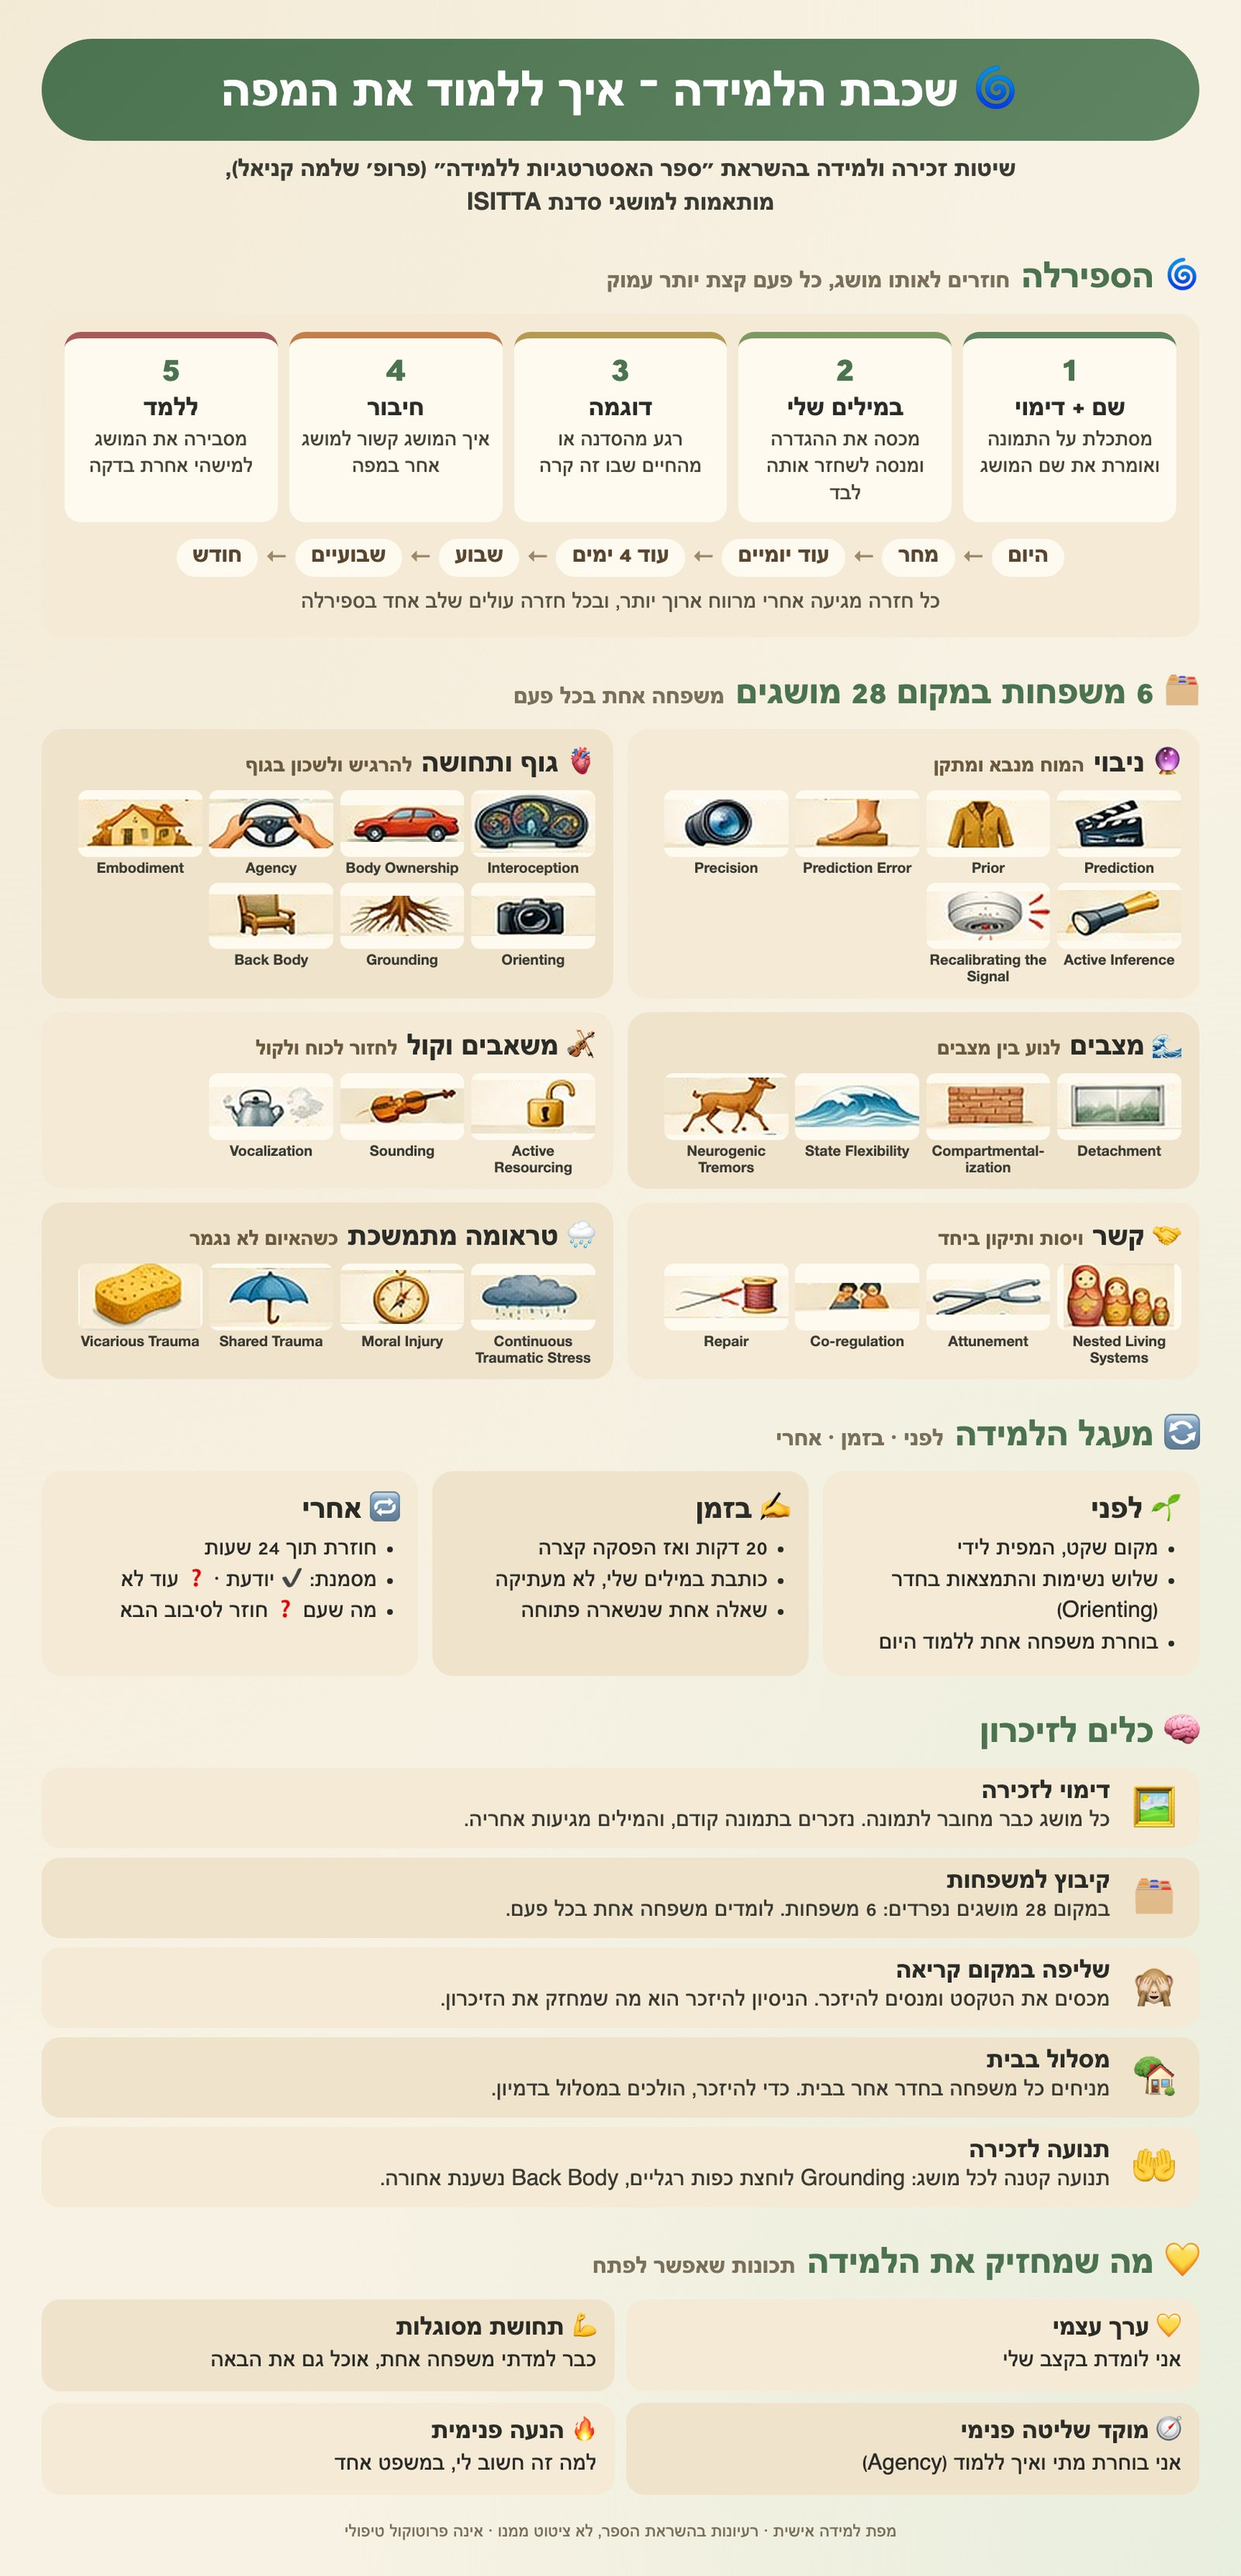
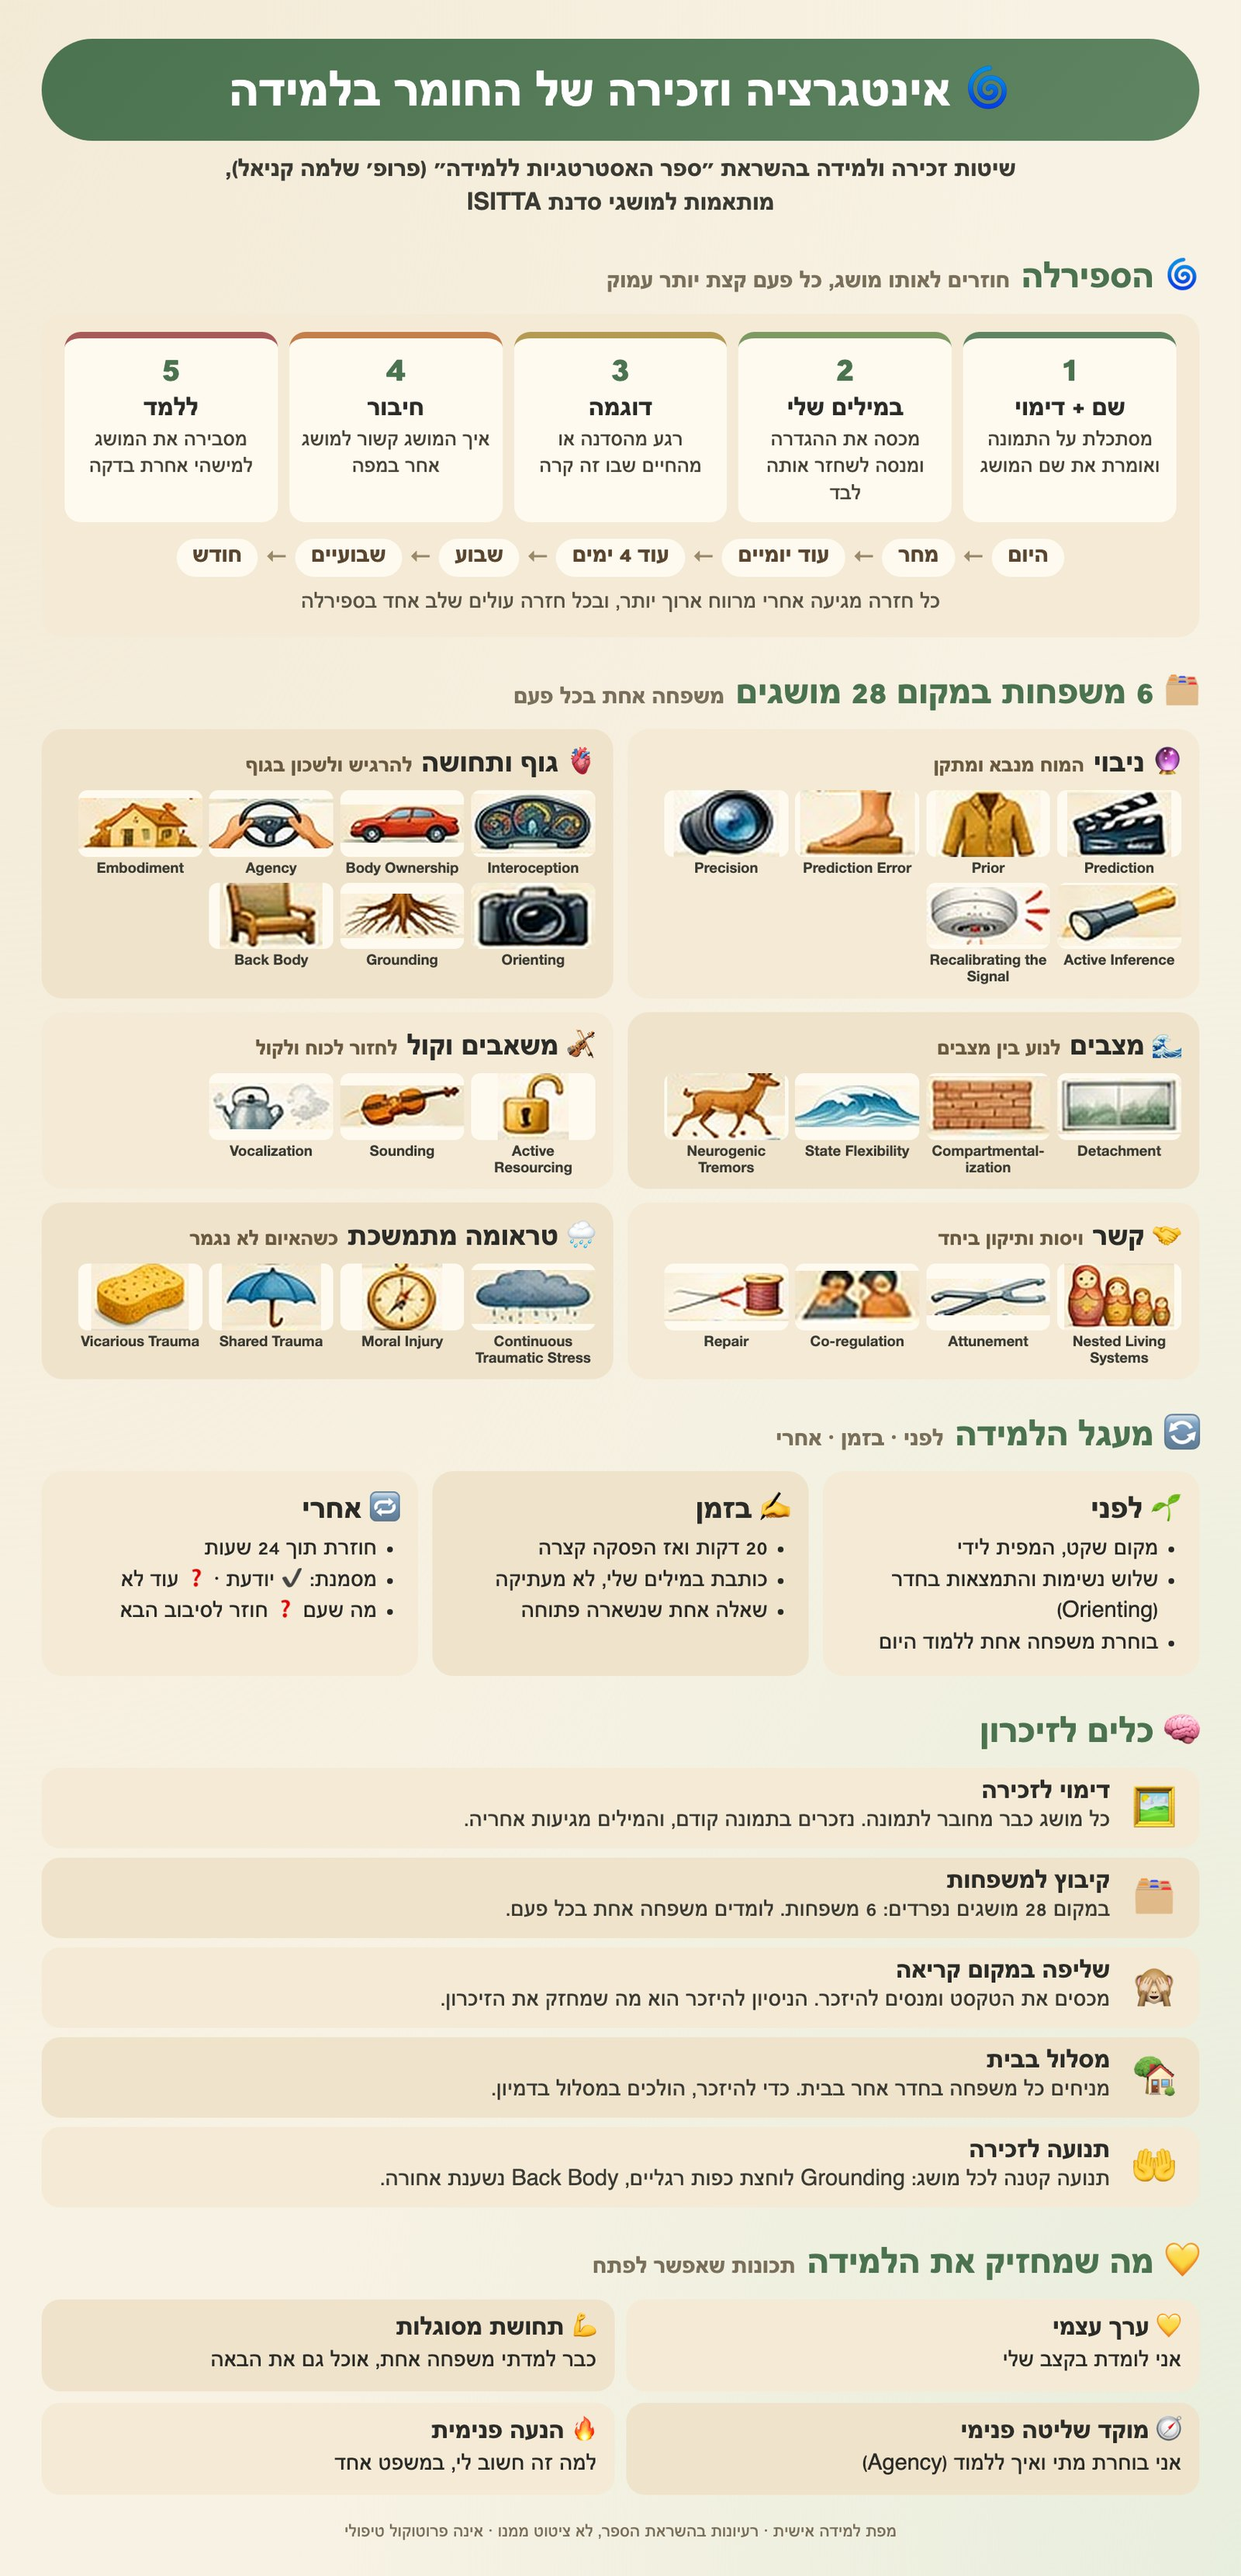
Last page retitled: Integrating and Remembering the Material (HE + EN)

diff --git a/index.html b/index.html
@@ -43,14 +43,14 @@
     <figure><img src="he/2.jpg" alt="מפת הלמידה הסומטית – חלק ב׳"></figure>
     <figure><img src="he/3.jpg" alt="מילון מושגים מרכזי עם דימוי לזכירה – חלק 1" loading="lazy"></figure>
     <figure><img src="he/4.jpg" alt="מילון מושגים מרכזי עם דימוי לזכירה – חלק 2" loading="lazy"></figure>
-    <figure><img src="he/5.jpg" alt="שכבת הלמידה – איך ללמוד את המפה" loading="lazy"></figure>
+    <figure><img src="he/5.jpg" alt="אינטגרציה וזכירה של החומר בלמידה" loading="lazy"></figure>
   </section>
   <section class="set" id="en" lang="en" dir="ltr">
     <figure><img src="en/1.jpg" alt="The Somatic Learning Map – Part A"></figure>
     <figure><img src="en/2.jpg" alt="The Somatic Learning Map – Part B"></figure>
     <figure><img src="en/3.jpg" alt="Key Concepts Glossary – part 1" loading="lazy"></figure>
     <figure><img src="en/4.jpg" alt="Key Concepts Glossary – part 2" loading="lazy"></figure>
-    <figure><img src="en/5.jpg" alt="The Learning Layer – how to learn the map" loading="lazy"></figure>
+    <figure><img src="en/5.jpg" alt="Integrating and Remembering the Material" loading="lazy"></figure>
   </section>
 </main>
 <footer>
